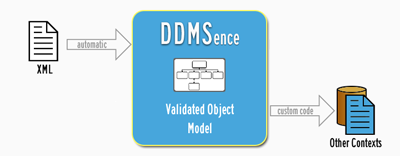
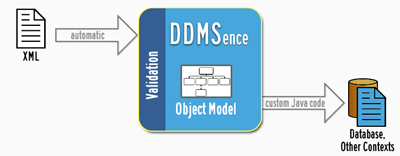
Updated some documentation and website images for JSON support.
git-svn-id: http://ddmsence.googlecode.com/svn/trunk@893 1f99f4d6-3056-11df-954b-21e382534593

Changed region(s): [[0.03, 0.0256, 0.99, 0.9744]]

diff --git a/src/main/buri/ddmsence/AbstractBaseComponent.java b/src/main/buri/ddmsence/AbstractBaseComponent.java
@@ -191,6 +191,14 @@ public abstract class AbstractBaseComponent implements IDDMSComponent {
 	}
 
 	/**
+	 * @see IDDMSComponent#toJSON()
+	 */
+	public String toJSON() {
+		throw new UnsupportedOperationException("JSON output has not yet been implemented.");
+		//return (getOutput(OutputFormat.JSON, "", ""));
+	}
+	
+	/**
 	 * @see IDDMSComponent#toText()
 	 */
 	public String toText() {
@@ -198,13 +206,13 @@ public abstract class AbstractBaseComponent implements IDDMSComponent {
 	}
 
 	/**
-	 * Renders this component as HTML or Text, with an optional prefix to nest it.
+	 * Renders this component as HTML, JSON, or Text, with an optional prefix to nest it.
 	 * 
 	 * @param format the desired format of this output
 	 * @param prefix an optional prefix to put on each name.
 	 * @param suffix an optional suffix to append to each name, such as an index.
 	 * 
-	 * @return the HTML or Text representation of this component
+	 * @return the representation of this component in the specified format
 	 */
 	public abstract String getOutput(OutputFormat format, String prefix, String suffix);
 

diff --git a/src/main/buri/ddmsence/ddms/summary/VerticalExtent.java b/src/main/buri/ddmsence/ddms/summary/VerticalExtent.java
@@ -40,7 +40,7 @@ import buri.ddmsence.util.Util;
  * values on the required attributes of the same name on this element. It does not seem logical to specify these
  * attributes on the parent element and then express the actual values with a different measure. Note that because
  * DDMSence is giving precedence to the top-level unitOfMeasure and datum attributes, those attributes on the
- * children are not displayed in HTML/Text. However, they are still rendered in XML, if present in an existing
+ * children are not displayed in HTML/JSON/Text. However, they are still rendered in XML, if present in an existing
  * document.</p>
  * 
  * <p>The above design decision dictates that VerticalDistance (the type behind minVerticalExtent and maxVerticalExtent)

diff --git a/src/main/buri/ddmsence/ddms/extensible/ExtensibleAttributes.java b/src/main/buri/ddmsence/ddms/extensible/ExtensibleAttributes.java
@@ -65,7 +65,7 @@ import buri.ddmsence.util.Util;
  * Attribute attribute = new Attribute("opensearch:confidence", "http://opensearch.namespace/", "82"); </code></ul>
  * 
  * <p>The DDMS documentation does not provide sample HTML/Text output for extensible attributes, so the following
- * approach is used. In general, the HTML/Text output of extensible attributes will be prefixed with the name of the
+ * approach is used. In general, the output of extensible attributes will be prefixed with the name of the
  * element being marked. For example:</p>
  * 
  * <ul><code> keyword opensearch:relevance: 95<br /> keyword opensearch:confidence: 82<br />

diff --git a/src/main/buri/ddmsence/ddms/OutputFormat.java b/src/main/buri/ddmsence/ddms/OutputFormat.java
@@ -24,6 +24,8 @@ package buri.ddmsence.ddms;
  * 
  * <ul>
  * <li><b>HTML</b>: HTML meta tags, in accordance with the suggested HTML output from the DDMS Specification.</li>
+ * <li><b>JSON</b>: JSON data, which generally follows the naming conventions of the HTML/Text output, rather than
+ *    being a straight XML-to-JSON conversion.</li>
  * <li><b>TEXT</b>: Text name-value pairings, in accordance with the suggested Text output from the DDMS Specification.</li>
  * </ul>
  * 
@@ -31,5 +33,5 @@ package buri.ddmsence.ddms;
  * @since 2.3.0
  */
 public enum OutputFormat {
-	HTML, TEXT
+	HTML, JSON, TEXT
 }

diff --git a/src/main/buri/ddmsence/ddms/summary/RelatedResource.java b/src/main/buri/ddmsence/ddms/summary/RelatedResource.java
@@ -51,7 +51,7 @@ import buri.ddmsence.util.Util;
  * 		removed, and the ddms:relatedResource now contains all of the parent information (relationship and direction).</p>
  * 
  * 		<p>The element-based constructor for this class can automatically handle these cases, and will automatically
- * 		mediate the Text/HTML/XML output:</p>
+ * 		mediate the Text/HTML/JSON/XML output:</p>
  * 		<ul>
  * 		<li>A pre-DDMS 4.0.1 ddms:RelatedResources element containing 1 ddms:relatedResource.</li>
  * 		<li>A post-DDMS 4.0.1 ddms:relatedResource element.</li>

diff --git a/src/main/buri/ddmsence/ddms/Resource.java b/src/main/buri/ddmsence/ddms/Resource.java
@@ -79,7 +79,7 @@ import buri.ddmsence.util.Util;
  * <br />
  * {@ddms.versions 11111}
  * 
- * <p>When generating HTML/Text output for a Resource, additional tags are generated listing the version of DDMSence
+ * <p>When generating HTML/JSON/Text output for a Resource, additional tags are generated listing the version of DDMSence
  * used to create the record (to help identify formatting bugs), and the version of DDMS. These lines are not required
  * (and may be removed). For example:</p>
  * 

diff --git a/src/main/buri/ddmsence/AbstractAttributeGroup.java b/src/main/buri/ddmsence/AbstractAttributeGroup.java
@@ -100,11 +100,11 @@ public abstract class AbstractAttributeGroup {
 	}
 
 	/**
-	 * Outputs to HTML or Text with a prefix at the beginning of each meta tag or line.
+	 * Outputs to HTML, JSON, or Text with a prefix at the beginning of each meta tag or line.
 	 * 
 	 * @param format the desired format of this output
 	 * @param prefix the prefix to add
-	 * @return the HTML or Text output
+	 * @return the output
 	 */
 	public abstract String getOutput(OutputFormat format, String prefix);
 

diff --git a/src/main/buri/ddmsence/ddms/extensible/ExtensibleElement.java b/src/main/buri/ddmsence/ddms/extensible/ExtensibleElement.java
@@ -48,7 +48,7 @@ import buri.ddmsence.util.Util;
  * element.appendChild("This will be the child text.");
  * </code></ul>
  * 
- * <p>Because it is impossible to cover all of the HTML/Text output cases for ExtensibleElements, DDMSence
+ * <p>Because it is impossible to cover all of the HTML/JSON/Text output cases for ExtensibleElements, DDMSence
  * will simply print out the existence of extensible elements:</p>
  * <ul><code>
  * Extensible Layer: true<br />

diff --git a/src/main/buri/ddmsence/ddms/IDDMSComponent.java b/src/main/buri/ddmsence/ddms/IDDMSComponent.java
@@ -107,6 +107,13 @@ public interface IDDMSComponent {
 	public String toHTML();
 
 	/**
+	 * Renders this component as JSON.
+	 * 
+	 * @return the JSON representation of this component
+	 */
+	public String toJSON();
+	
+	/**
 	 * Renders this component as Text.
 	 * 
 	 * @return the text-based representation of this component
